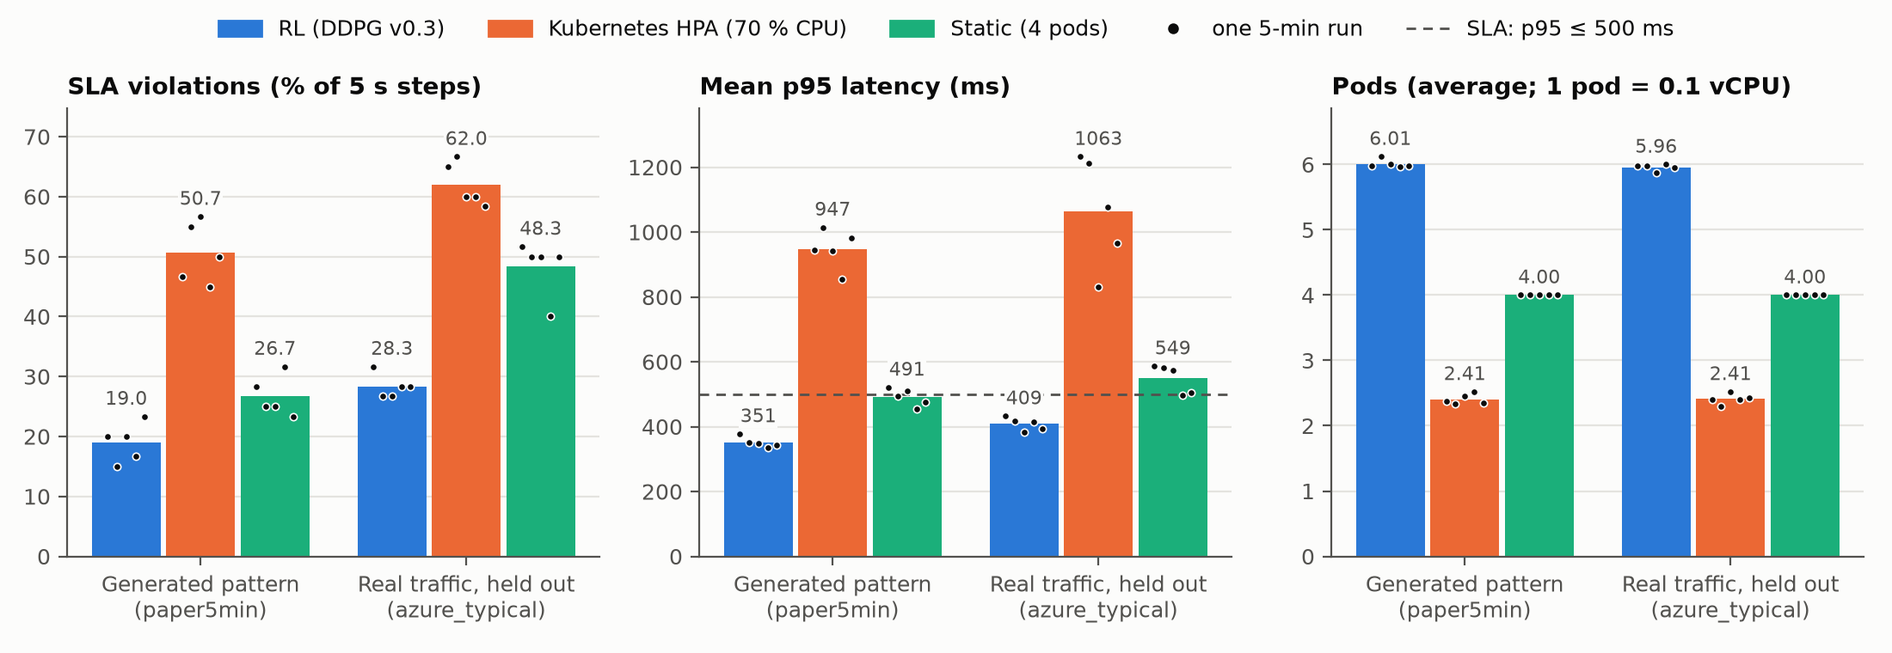
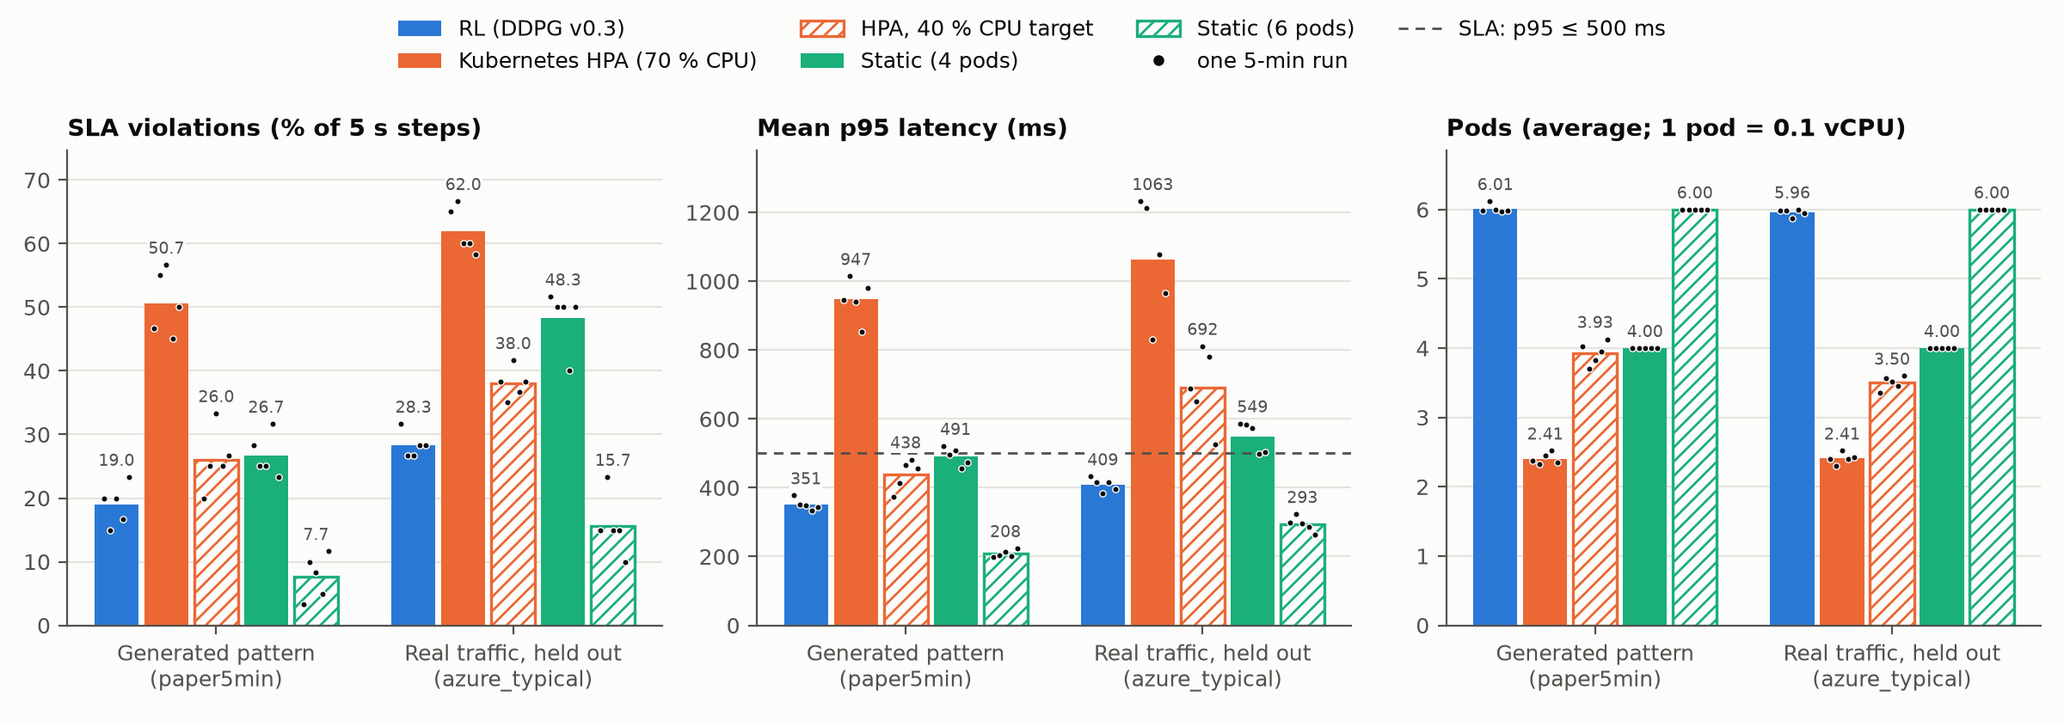
docs: equal-cost baselines for the k8s tier (static 6 pods, HPA at 40 %)
Static 6 pods (RL's average) beats RL at the same cost: 7.7 vs 19.0 % and
15.7 vs 28.3 % SLA violations (p <= 0.002). The HPA at 40 % needs 35-40 %
fewer pods than RL and violates the SLA more (26 / 38 %). Step data: RL's
violations cluster in the 15 s after a scaling change. README rewritten
around this; figures show the variants hatched.

diff --git a/docs/aws-results-k8s-v0.3/make_figures.py b/docs/aws-results-k8s-v0.3/make_figures.py
@@ -20,10 +20,15 @@ DOCS = Path(__file__).resolve().parent.parent
 HERE = DOCS / "aws-results-k8s-v0.3"
 OUT = HERE / "figures"
 
-# Colours: first three categorical slots of the validated default palette (CVD-safe across all pairs).
+# Colours: first three categorical slots of the validated default palette (CVD-safe across all pairs). The
+# equal-cost variants reuse their base method's hue with a hatched / hollow fill instead of new hues (slots 4-5
+# fail the normal-vision separation against orange and aqua).
 SURFACE, INK, INK2, GRID = "#fcfcfb", "#0b0b0b", "#52514e", "#e4e3df"
 METHODS = [("rl", "RL (DDPG v0.3)", "#2a78d6"), ("hpa", "Kubernetes HPA (70 % CPU)", "#eb6834"),
-           ("static", "Static (4 pods)", "#1baf7a")]
+           ("hpa40", "HPA, 40 % CPU target", "#eb6834"), ("static", "Static (4 pods)", "#1baf7a"),
+           ("static6", "Static (6 pods)", "#1baf7a")]
+VARIANTS = {"hpa40", "static6"}
+BASE = [m for m in METHODS if m[0] not in VARIANTS]
 SCEN = [("paper5min", "Generated pattern\n(paper5min)"), ("azure_typical", "Real traffic, held out\n(azure_typical)")]
 
 plt.rcParams.update({
@@ -38,18 +43,28 @@ plt.rcParams.update({
 def load(path):
     rows = [r for r in csv.DictReader(open(path)) if r["shadow"] == "0" and "calibrate" not in r["run_id"]]
     for r in rows:
-        r["scenario"] = r["run_id"].split("-")[2]
+        _, r["pol"], r["scenario"] = r["run_id"].split("-")[:3]   # run_test.sh variant (static6, hpa40)
     return rows
 
 
 def vals(rows, scen, pol, metric):
-    return [float(r[metric]) for r in rows if r["scenario"] == scen and r["policy"] == pol]
+    return [float(r[metric]) for r in rows if r["scenario"] == scen and r["pol"] == pol]
 
 
-def legend_top(fig, extra=()):
-    handles = [plt.Rectangle((0, 0), 1, 1, color=c) for _, _, c in METHODS] + [h for h, _ in extra]
-    labels = [lab for _, lab, _ in METHODS] + [lab for _, lab in extra]
-    fig.legend(handles, labels, loc="upper center", ncol=len(labels), bbox_to_anchor=(0.5, 1.0))
+def present(rows, methods=METHODS):
+    return [m for m in methods if any(r["pol"] == m[0] for r in rows)]
+
+
+def swatch(pol, col):
+    if pol in VARIANTS:
+        return dict(facecolor=SURFACE, edgecolor=col, hatch="////", linewidth=1.2)
+    return dict(color=col, linewidth=0)
+
+
+def legend_top(fig, methods, extra=(), ncol=None):
+    handles = [plt.Rectangle((0, 0), 1, 1, **swatch(p, c)) for p, _, c in methods] + [h for h, _ in extra]
+    labels = [lab for _, lab, _ in methods] + [lab for _, lab in extra]
+    fig.legend(handles, labels, loc="upper center", ncol=ncol or len(labels), bbox_to_anchor=(0.5, 1.0))
 
 
 def fig_metrics(rows):
@@ -57,30 +72,35 @@ def fig_metrics(rows):
     panels = [("sla_violation_pct", "SLA violations (% of 5 s steps)", "{:.1f}"),
               ("mean_p95_ms", "Mean p95 latency (ms)", "{:.0f}"),
               ("avg_units", "Pods (average; 1 pod = 0.1 vCPU)", "{:.2f}")]
-    fig, axes = plt.subplots(1, 3, figsize=(11, 3.8))
-    w = 0.26
+    methods = present(rows)
+    n = len(methods)
+    fig, axes = plt.subplots(1, 3, figsize=(12 if n > 3 else 11, 4.2 if n > 3 else 3.8))
+    step = 0.84 / n
+    w = step - 0.02
     for ax, (metric, title, fmt) in zip(axes, panels):
         for si, (sc, _) in enumerate(SCEN):
-            for mi, (pol, _, col) in enumerate(METHODS):
+            for mi, (pol, _, col) in enumerate(methods):
                 v = vals(rows, sc, pol, metric)
                 if not v:
                     continue
-                x = si + (mi - 1) * (w + 0.02)
+                x = si + (mi - (n - 1) / 2) * step
                 m = st.mean(v)
-                ax.bar(x, m, w, color=col, linewidth=0)
-                ax.scatter([x + (k - (len(v) - 1) / 2) * 0.035 for k in range(len(v))], v, s=9, color=INK,
-                           edgecolors=SURFACE, linewidths=0.6, zorder=3)
+                ax.bar(x, m, w, **swatch(pol, col))
+                ax.scatter([x + (k - (len(v) - 1) / 2) * w * 0.14 for k in range(len(v))], v, s=7, color=INK,
+                           edgecolors=SURFACE, linewidths=0.5, zorder=3)
                 ax.annotate(fmt.format(m), (x, max(max(v), m)), textcoords="offset points", xytext=(0, 3),
-                            ha="center", va="bottom", fontsize=8, color=INK2,
-                            bbox=dict(fc=SURFACE, ec="none", pad=0.6))
+                            ha="center", va="bottom", fontsize=7 if n > 3 else 8, color=INK2,
+                            bbox=dict(fc=SURFACE, ec="none", pad=0.4))
         if metric == "mean_p95_ms":
             ax.axhline(500, color=INK2, linestyle=(0, (4, 3)), linewidth=1, zorder=1)
         ax.set_title(title, loc="left")
         ax.set_xticks(range(len(SCEN)), [lab for _, lab in SCEN])
         ax.margins(y=0.12)
-    legend_top(fig, [(plt.Line2D([], [], marker="o", color=INK, linestyle="", markersize=3.5), "one 5-min run"),
-                     (plt.Line2D([], [], color=INK2, linestyle=(0, (4, 3)), linewidth=1), "SLA: p95 ≤ 500 ms")])
-    fig.tight_layout(rect=(0, 0, 1, 0.92))
+    legend_top(fig, methods,
+               [(plt.Line2D([], [], marker="o", color=INK, linestyle="", markersize=3.5), "one 5-min run"),
+                (plt.Line2D([], [], color=INK2, linestyle=(0, (4, 3)), linewidth=1), "SLA: p95 ≤ 500 ms")],
+               ncol=4 if n > 3 else None)
+    fig.tight_layout(rect=(0, 0, 1, 0.87 if n > 3 else 0.92))
     fig.savefig(OUT / "aws_k8s_metrics.png", dpi=200)
     plt.close(fig)
 
@@ -88,22 +108,27 @@ def fig_metrics(rows):
 def fig_tradeoff(rows):
     """Pods vs SLA violations per run: down-left is better."""
     fig, axes = plt.subplots(1, 2, figsize=(10, 4.2), sharey=True)
-    short = {"rl": "RL", "hpa": "HPA", "static": "Static"}
+    short = {"rl": "RL", "hpa": "HPA", "hpa40": "HPA 40 %", "static": "Static 4", "static6": "Static 6"}
+    methods = present(rows)
     for ax, (sc, title) in zip(axes, SCEN):
-        for pol, _, col in METHODS:
+        for pol, _, col in methods:
             x, y = vals(rows, sc, pol, "avg_units"), vals(rows, sc, pol, "sla_violation_pct")
             if not x:
                 continue
-            ax.scatter(x, y, s=34, color=col, edgecolors=SURFACE, linewidths=0.8, zorder=3, alpha=0.9)
-            ax.annotate(short[pol], (st.mean(x), st.mean(y)), xytext=(st.mean(x) + 0.15, st.mean(y)),
-                        fontsize=8, color=INK2, ha="left", va="center")
+            if pol in VARIANTS:
+                ax.scatter(x, y, s=30, facecolors=SURFACE, edgecolors=col, linewidths=1.6, zorder=3)
+            else:
+                ax.scatter(x, y, s=34, color=col, edgecolors=SURFACE, linewidths=0.8, zorder=3, alpha=0.9)
+            left = pol == "hpa40"                     # keeps it clear of "Static 4" at the same pod count
+            ax.annotate(short[pol], (st.mean(x), st.mean(y)), xytext=(min(x) - 0.15 if left else max(x) + (0.3 if pol == "static" else 0.15),
+                        st.mean(y)), fontsize=8, color=INK2, ha="right" if left else "left", va="center")
         ax.set_title(title.replace("\n", " "), loc="left")
         ax.set_xlabel("Average pods (0.1 vCPU each)  →  more cost")
         ax.set_xlim(1.5, 8.2)
         ax.grid(axis="x", color=GRID, linewidth=0.8)
     axes[0].set_ylabel("SLA violations (% of 5 s steps)  →  worse")
     axes[0].set_ylim(0, None)
-    legend_top(fig)
+    legend_top(fig, methods, ncol=3 if len(methods) > 3 else None)
     fig.tight_layout(rect=(0, 0, 1, 0.92))
     fig.savefig(OUT / "aws_k8s_tradeoff.png", dpi=200)
     plt.close(fig)
@@ -120,7 +145,7 @@ def fig_sim_vs_aws(rows):
     top = 0.0
     for ax, (simp, awsp, title) in zip(axes, pairs):
         for gi, where in enumerate(["Simulator", "AWS"]):
-            for mi, (pol, _, col) in enumerate(METHODS):
+            for mi, (pol, _, col) in enumerate(BASE):        # the simulator has no equal-cost variants
                 if where == "Simulator":
                     meth, seed = simkey[pol]
                     v = [float(r["sla_violation_pct"]) for r in sim if r["mode"] == "k8s" and r["pattern"] == simp
@@ -141,7 +166,7 @@ def fig_sim_vs_aws(rows):
         ax.set_title(title, loc="left")
     axes[0].set_ylabel("SLA violations (% of 5 s steps)")
     axes[0].set_ylim(0, top * 1.15 + 2)
-    legend_top(fig)
+    legend_top(fig, BASE)
     fig.tight_layout(rect=(0, 0, 1, 0.9))
     fig.savefig(OUT / "sim_vs_aws.png", dpi=200)
     plt.close(fig)

diff --git a/docs/aws-results-k8s-v0.3/README.md b/docs/aws-results-k8s-v0.3/README.md
@@ -2,7 +2,13 @@
 
 Model [`model-v0.3`](https://github.com/plaethos99/drl-autoscaler/releases/tag/model-v0.3) (DDPG seed 3, Kubernetes
 tier, trained on the simulator calibrated on this cluster) vs the **real Kubernetes HorizontalPodAutoscaler** vs static
-allocation, on a k3s cluster on AWS. Simulator results for the same model: [`../sim-results-v0.3`](../sim-results-v0.3/README.md).
+allocation, on a k3s cluster on AWS, plus two **equal-cost baselines** run afterwards to check where RL's advantage
+comes from. Simulator results for the same model: [`../sim-results-v0.3`](../sim-results-v0.3/README.md).
+
+**Summary.** RL clearly beats the cluster HPA and static 4 pods, but it uses about 6 pods to do it, and a **fixed
+allocation of 6 pods beats RL** at the same cost (7.7 vs 19.0 % and 15.7 vs 28.3 % SLA violations, p ≤ 0.002). On
+this tier the model has learned *how many* pods the load needs on average, but moving pods up and down costs more
+than it gains. A tuned HPA (40 % CPU target) needs a third fewer pods than RL and violates the SLA more.
 
 ## Setup
 
@@ -14,27 +20,28 @@ allocation, on a k3s cluster on AWS. Simulator results for the same model: [`../
 | Routing | gateway (LoadBalancer :8080, no upstream keep-alive) → Service → kube-proxy picks a random ready pod per connection |
 | Metrics | the controller reads pending pods from the Deployment and CPU from each pod's cgroup; Prometheus for latency |
 | HPA baseline | `autoscaling/v2` HPA on the classifier, 70 % CPU target, 1–8 pods, metrics-server (15 s resolution), controller sync every 5 s, scale-down stabilisation 30 s (`k8s/testbed/hpa.yaml`); the agent only observes during these runs |
+| Equal-cost baselines | `hpa40`: the same HPA with a 40 % CPU target; `static6`: a fixed 6 pods, RL's average (`run_test.sh hpa<pct>` / `static<units>`) |
 | Calibration | `MU_PER_UNIT = 3.9` req/s per pod within the SLA; pod start-up 11.7 s |
 | Scenarios | `paper5min` (generated) and `azure_typical` (a held-out 5-minute window of the Azure Functions 2021 trace, days 11–14, never seen in training); 31 peak users |
-| Runs | 5 rounds × 2 scenarios × {rl, hpa, static}, 5 min each, interleaved; start at 2 pods (static: 4) |
-| Code | `run_all.sh` with `TIER=k8s POLICIES="rl hpa static"` at commit `8498cbe`, 05:23–08:12 UTC |
+| Runs | Session 1: 5 rounds × 2 scenarios × {rl, hpa, static}, 05:23–08:12 UTC, commit `8498cbe`. Session 2 (same box after a stop/start): 5 rounds × 2 scenarios × {hpa40, static6}, 09:17–11:10 UTC, commit `b28f674`. 5 min each, interleaved; start at 2 pods (static: 4 or 6) |
 
 ## Figures
 
 ![SLA violations, mean p95 and pods per method and scenario](figures/aws_k8s_metrics.png)
 
-*Bars: mean of 5 runs; dots: individual 5-minute runs. RL has the fewest SLA violations and the lowest p95 on both
-scenarios and is the only method with a mean p95 under 500 ms on both; it keeps about 6 pods where the HPA keeps 2.4.*
+*Bars: mean of 5 runs; dots: individual 5-minute runs; hatched bars are the equal-cost baselines. RL beats the
+standard HPA and static 4 pods, but static 6 pods (the same average cost as RL) beats RL on every metric.*
 
 ![Pods vs SLA violations per run](figures/aws_k8s_tradeoff.png)
 
-*Each dot is one run; down-left is better. The three methods sit at three clearly separated cost levels.*
+*Each dot is one run; down-left is better; hollow markers are the equal-cost baselines. At about 6 pods, the fixed
+allocation sits well below RL; at about 4 pods, the 40 % HPA and static 4 pods are close to each other.*
 
 ![Simulator vs AWS, same patterns](figures/sim_vs_aws.png)
 
-*The released model and the baselines in the calibrated simulator and on AWS. The ranking (RL < static < HPA) is
-the same everywhere; the simulator matches the HPA on `paper5min` but is too optimistic for RL. On real traffic the
-simulator averages 10 random held-out windows, AWS plays one of them (`azure_typical`, a busier one).*
+*The released model and the original baselines in the calibrated simulator and on AWS. The ranking (RL < static 4 <
+HPA) is the same everywhere; the simulator matches the HPA on `paper5min` but is too optimistic for RL. On real
+traffic the simulator averages 10 random held-out windows, AWS plays one of them (`azure_typical`, a busier one).*
 
 ## Results (mean ± SD over 5 runs)
 
@@ -42,57 +49,94 @@ simulator averages 10 random held-out windows, AWS plays one of them (`azure_typ
 
 | Method | SLA violations % | Mean p95 ms | Worst p95 ms | Avg pods | Cost (pod-steps) | Scaling actions |
 |---|---|---|---|---|---|---|
-| **RL (DDPG v0.3)** | **19.0 ± 3.2** | **351 ± 16** | **1273 ± 107** | 6.01 ± 0.06 | 360.6 ± 3.7 | 17.0 ± 3.7 |
-| Kubernetes HPA | 50.7 ± 5.1 | 947 ± 60 | 3558 ± 760 | 2.41 ± 0.08 | 144.4 ± 4.6 | 6.0 ± 0.7 |
+| RL (DDPG v0.3) | 19.0 ± 3.2 | 351 ± 16 | 1273 ± 107 | 6.01 ± 0.06 | 360.6 ± 3.7 | 17.0 ± 3.7 |
+| Kubernetes HPA (70 %) | 50.7 ± 5.1 | 947 ± 60 | 3558 ± 760 | 2.41 ± 0.08 | 144.4 ± 4.6 | 6.0 ± 0.7 |
+| HPA, 40 % target | 26.0 ± 4.8 | 438 ± 44 | 2058 ± 479 | 3.93 ± 0.17 | 235.8 ± 10.2 | 7.2 ± 0.8 |
 | Static (4 pods) | 26.7 ± 3.3 | 491 ± 27 | 1837 ± 327 | 4.00 | 240.0 | 0 |
+| **Static (6 pods)** | **7.7 ± 3.5** | **208 ± 11** | **663 ± 77** | 6.00 | 360.0 | 0 |
 
 ### `azure_typical` (real traffic, held out)
 
 | Method | SLA violations % | Mean p95 ms | Worst p95 ms | Avg pods | Cost (pod-steps) | Scaling actions |
 |---|---|---|---|---|---|---|
-| **RL (DDPG v0.3)** | **28.3 ± 2.0** | **409 ± 19** | 1535 ± 187 | 5.96 ± 0.05 | 357.4 ± 3.2 | 15.4 ± 4.9 |
-| Kubernetes HPA | 62.0 ± 3.6 | 1063 ± 169 | 3745 ± 1088 | 2.41 ± 0.08 | 144.6 ± 4.7 | 5.0 ± 1.4 |
-| Static (4 pods) | 48.3 ± 4.7 | 549 ± 44 | **1506 ± 194** | 4.00 | 240.0 | 0 |
+| RL (DDPG v0.3) | 28.3 ± 2.0 | 409 ± 19 | 1535 ± 187 | 5.96 ± 0.05 | 357.4 ± 3.2 | 15.4 ± 4.9 |
+| Kubernetes HPA (70 %) | 62.0 ± 3.6 | 1063 ± 169 | 3745 ± 1088 | 2.41 ± 0.08 | 144.6 ± 4.7 | 5.0 ± 1.4 |
+| HPA, 40 % target | 38.0 ± 2.5 | 692 ± 114 | 4153 ± 1218 | 3.50 ± 0.10 | 209.8 ± 6.0 | 7.4 ± 0.5 |
+| Static (4 pods) | 48.3 ± 4.7 | 549 ± 44 | 1506 ± 194 | 4.00 | 240.0 | 0 |
+| **Static (6 pods)** | **15.7 ± 4.8** | **293 ± 22** | **866 ± 179** | 6.00 | 360.0 | 0 |
 
-### Significance (two-sided; Welch t-test / exact Mann-Whitney U, n = 5 vs 5)
+### Significance (two-sided; Welch t-test / exact Mann-Whitney U, n = 5 vs 5; "RL −x %" = RL lower)
 
-| Metric | RL vs HPA, `paper5min` | RL vs HPA, `azure_typical` | RL vs static, `paper5min` | RL vs static, `azure_typical` |
-|---|---|---|---|---|
-| SLA violations | p < 0.001 / 0.008 (RL −63 %) | p < 0.001 / 0.008 (RL −54 %) | p = 0.006 / 0.016 (RL −29 %) | p < 0.001 / 0.008 (RL −41 %) |
-| Mean p95 | p < 0.001 / 0.008 (RL −63 %) | p < 0.001 / 0.008 (RL −62 %) | p < 0.001 / 0.008 (RL −28 %) | p < 0.001 / 0.008 (RL −26 %) |
-| Worst p95 | p = 0.002 / 0.008 (RL −64 %) | p = 0.010 / 0.008 (RL −59 %) | p = 0.015 / 0.016 (RL −31 %) | p = 0.82 / 0.73 (RL +2 %, n.s.) |
-| Pods (cost) | p < 0.001 / 0.008 (RL **+150 %**) | p < 0.001 / 0.008 (RL **+147 %**) | p < 0.001 / 0.008 (RL +50 %) | p < 0.001 / 0.008 (RL +49 %) |
+| RL vs … | Metric | `paper5min` | `azure_typical` |
+|---|---|---|---|
+| HPA (70 %) | SLA violations | p < 0.001 / 0.008 (RL −63 %) | p < 0.001 / 0.008 (RL −54 %) |
+| | Mean p95 | p < 0.001 / 0.008 (RL −63 %) | p < 0.001 / 0.008 (RL −62 %) |
+| | Pods | p < 0.001 / 0.008 (RL +150 %) | p < 0.001 / 0.008 (RL +147 %) |
+| HPA, 40 % target | SLA violations | p = 0.030 / 0.032 (RL −27 %) | p < 0.001 / 0.008 (RL −25 %) |
+| | Mean p95 | p = 0.009 / 0.016 (RL −20 %) | p = 0.005 / 0.008 (RL −41 %) |
+| | Pods | p < 0.001 / 0.008 (RL +53 %) | p < 0.001 / 0.008 (RL +70 %) |
+| Static (4 pods) | SLA violations | p = 0.006 / 0.016 (RL −29 %) | p < 0.001 / 0.008 (RL −41 %) |
+| | Mean p95 | p < 0.001 / 0.008 (RL −28 %) | p < 0.001 / 0.008 (RL −26 %) |
+| | Pods | p < 0.001 / 0.008 (RL +50 %) | p < 0.001 / 0.008 (RL +49 %) |
+| **Static (6 pods)** | SLA violations | p < 0.001 / 0.008 (**RL +148 %**) | p = 0.002 / 0.008 (**RL +81 %**) |
+| | Mean p95 | p < 0.001 / 0.008 (RL +69 %) | p < 0.001 / 0.008 (RL +39 %) |
+| | Worst p95 | p < 0.001 / 0.008 (RL +92 %) | p < 0.001 / 0.008 (RL +77 %) |
+| | Pods | p = 0.74 / 0.17 (same) | p = 0.13 / 0.048 (RL −1 %) |
 
-0.008 is the smallest p-value an exact Mann-Whitney test can give with 5 vs 5 runs (all RL runs better than all
-baseline runs).
+0.008 is the smallest p-value an exact Mann-Whitney test can give with 5 vs 5 runs (every run of one method better
+than every run of the other).
+
+## Where RL loses its violations (step-level data, RL runs of session 1)
+
+From `decisions.sqlite` on the cluster box (600 RL steps, 5 s each):
+
+| RL steps | Steps | SLA violations | Mean load |
+|---|---|---|---|
+| no change of the requested pods in the previous 15 s | 284 | 55 (19 %) | 11.3 req/s |
+| within 15 s of a scale-up or scale-down | 306 | 86 (28 %) | 10.0 req/s |
+| *Static 6 pods, all steps (session 2)* | *600* | *70 (12 %)* | |
+
+RL changes the pod count in about half of all 15 s windows. The steps right after a change violate the SLA more
+often than the others, although their load is lower. Likely reasons (not measured separately): a new pod needs
+~12 s to become ready while the load is already high, and a pod being removed stops taking new connections, so for
+some seconds the remaining pods carry more than their share. Even outside these windows RL is worse than static 6
+pods: its average of 6 is made of periods with 4–5 ready pods and periods with 7–8.
 
 ## Reading
 
-* **RL beats the real Kubernetes HPA clearly** on SLA violations (−54 to −63 %), mean p95 (−62 %) and worst p95
-  (−59 to −64 %), on the generated scenario and on held-out real traffic; every RL run is better than every HPA run.
-* **Why the HPA does badly here:** each pod is capped at its 0.1-vCPU request, so measured utilisation can never
-  exceed 100 % and each HPA decision can at most grow the Deployment to `ceil(pods / 0.7)` (2 → 3, 3 → 5); it sees CPU only through a 15 s
-  metrics-server window and new pods need ~12 s to become ready. It settles at about 2.4 pods, under the ~4 pods the
-  load needs. This is the CPU-target HPA configured the usual way (70 %), not a tuned one; the agent's
-  under-provisioning baseline in the simulator (`hpa_util_cap`, `hpa_metric_steps`) reproduces it (48–54 % simulated
-  vs 51 % measured on `paper5min`).
-* **The price is pods:** RL keeps about 6 pods, 2.5 × the HPA and 1.5 × static. Most of its gain over the HPA comes
-  from provisioning enough capacity; against static allocation, the extra 2 pods buy 29–41 % fewer violations.
-* **RL still violates the SLA in 19–28 % of steps** at 6 pods, much more than the 5–6 % the simulator predicted. With
-  random routing to 0.1-vCPU pods, bursts that land on one pod queue behind each other, and all pods share one
-  2-vCPU node with the gateway, resizer and control plane; the simulator's latency model has a 36 % median error on
-  this tier and underestimates these tails.
-* **Real traffic is harder for every method** (+9 to +22 points of violations); RL's ranking holds.
-* RL changes the allocation 15–17 times per 5 minutes, the HPA 5–6 times.
+* **RL beats the default Kubernetes HPA clearly** (−54 to −63 % violations, −62 % mean p95; every RL run better than
+  every HPA run). The default HPA under-provisions on this testbed: each pod is capped at its 0.1-vCPU request, so
+  measured utilisation can never exceed 100 % and each decision can at most grow the Deployment to `ceil(pods / 0.7)`
+  (2 → 3, 3 → 5); it sees CPU through a 15 s window and new pods need ~12 s. It settles at 2.4 pods. The simulator's
+  HPA model reproduces this (48–54 % simulated vs 51 % measured on `paper5min`).
+* **A tuned HPA (40 % target) closes much of the gap at lower cost:** 26 / 38 % violations with 3.5–3.9 pods vs
+  RL's 19 / 28 % with 6. RL is still significantly better on SLA, at 53–70 % more pods.
+* **At equal cost, a fixed allocation beats RL.** Static 6 pods has 59 % (`paper5min`) and 45 % (`azure_typical`)
+  fewer violations than RL, with the same average pods. So the RL policy's gain over the HPA comes from provisioning
+  more pods, not from scaling better. Scaling actions themselves are costly on this tier (slow pod start-up, random
+  routing over a changing pod set), and the simulator does not charge enough for them.
+* **This is a simulator-to-reality gap, not a tuning detail.** In the simulator RL was at 5–6 % violations and
+  static 4 pods at 11–21 %; on AWS every method is worse, and frequent scaling hurts more than the simulator
+  predicts. On the VM tier (`../aws-results-v0.2`) a resize takes effect at once (`docker update --cpus`), so the
+  effect may be smaller there, but RL was not compared with an equal-cost static allocation on that tier either
+  (static 4 units vs RL's 6.4); that check is still open.
+* **Real traffic is harder for every method** (+8 to +22 points of violations).
+
+## What this means for the next model
+
+* Charge each scaling action more in the reward, or give the k8s profile a slower and noisier start-up and a
+  latency penalty right after a change, so the policy learns to change less often.
+* Add a hold-time / hysteresis option to the controller (as the HPA's stabilisation window does).
+* Report static allocation at the RL policy's average size as a standard baseline for every tier.
 
 ## Limitations
 
-* **No equal-cost baseline.** RL's advantage over static 4 pods could partly be the extra capacity. A static
-  allocation of 6 pods, or an HPA with a lower CPU target (e.g. 40 %), would separate "adapts better" from "uses
-  more pods". These were not run on AWS.
+* The equal-cost baselines ran in a second session (same box, after a stop/start, about one hour later). Static 4
+  pods and the HPA were stable between the calibration round and session 1 (HPA 50 % vs 50.7 % on `paper5min`),
+  so a session effect of this size is unlikely, but RL was not re-run in session 2.
 * One single-node cluster on a 2-vCPU box. A multi-node cluster (e.g. kubeadm with dedicated worker nodes) would
   remove contention between the workload and the control plane.
-* 5 runs per cell, one load pattern window per scenario.
+* 5 runs per cell, one load window per scenario.
 
 ## Reproduce
 
@@ -101,8 +145,10 @@ python docs/aws-results-v0.2/analyze.py docs/aws-results-k8s-v0.3/summary.csv
 python docs/aws-results-k8s-v0.3/make_figures.py      # needs matplotlib
 ```
 
-`summary.csv` is the per-run table from `python -m autoscaler report` on the cluster box; `analyze.py` (shared with
-the VM results) computes the tables above in pure Python; `make_figures.py` draws `figures/` from it and the
-simulator's per-episode results (`../sim-results-v0.3/sim_eval_results.csv`). The step-level data is in
-`~/results/decisions.sqlite` on `drl-k8s-test`. How to set up the cluster and run the test:
+`summary.csv` is the per-run table from `python -m autoscaler report` on the cluster box. The `policy` column is the
+controller's policy (`hpa`, `static`); the variant (`hpa40`, `static6`) is the second field of `run_id`, which is
+what `analyze.py` and `make_figures.py` group by. `analyze.py` (shared with the VM results) computes the tables
+above in pure Python; `make_figures.py` draws `figures/` from it and the simulator's per-episode results
+(`../sim-results-v0.3/sim_eval_results.csv`). The step-level data is in `~/results/decisions.sqlite` on
+`drl-k8s-test`. How to set up the cluster and run the test:
 [`../DEPLOY.md`](../DEPLOY.md#kubernetes-tier-a-third-instance-with-k3s).

diff --git a/docs/sim-results-v0.3/README.md b/docs/sim-results-v0.3/README.md
@@ -67,7 +67,9 @@ static 20.8 %); `azure_trace_test` 5.0 % at 4.85 pods (HPA 34.2 % at 1.92, stati
   (about 2.4 pods on average). The RL policy keeps about twice as many pods, scales up ahead of the load and cuts
   SLA violations by about 90 %, on every pattern including held-out real traffic.
 * Against static allocation, RL uses about 20 % more pods for about 70 % fewer violations.
-* The AWS runs are the real test: [`../aws-results-k8s-v0.3`](../aws-results-k8s-v0.3/README.md).
+* The AWS runs are the real test: [`../aws-results-k8s-v0.3`](../aws-results-k8s-v0.3/README.md). There RL also
+  beats the cluster HPA clearly, but a fixed 6 pods (RL's average) beats RL at the same cost: on the real cluster,
+  frequent scaling costs more than this simulator charges for it.
 
 ## Files
 
